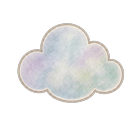
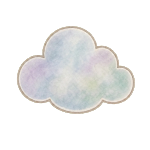
design: 아이콘 바꿈

diff --git a/src/pages/Home/WeeklyReport/WeeklyReport.jsx b/src/pages/Home/WeeklyReport/WeeklyReport.jsx
@@ -2,12 +2,14 @@ import { useMemo, useRef, useState } from 'react';
 import { useNavigate } from 'react-router-dom';
 import styled from 'styled-components';
 import closeIcon from '../../../assets/journal/close.png';
-import magnifierIcon from '../../../assets/weekly/magnifier.png';
+import cloudIcon from '../../../assets/weekly/cloud.png';
 import checkIcon from '../../../assets/weekly/check.png';
 import pencilIcon from '../../../assets/weekly/pencil.png';
+import sectionDividerSrc from '../../../assets/weekly/section-divider.svg';
 import { loadWeeklyList } from './weeklyReportData';
 import { useApi } from '../../../hooks/useApi';
 import { useFamilyRelation } from '../../../hooks/useFamilyRelation';
+import { wobblyBorder } from '../../../styles/wobble';
 
 // Figma 33_ver02 / ver04: 주간 리포트 목록.
 // 월 칩은 필터가 아니라 그 달 구간으로 스크롤을 옮기는 점프다(레이어 이름 Month Jump Row).
@@ -76,9 +78,10 @@ const TitleDivider = styled.div`
   border-top: 1.5px dashed rgba(74, 58, 47, 0.3);
 `;
 
-const SectionDivider = styled.div`
+const SectionDivider = styled.img`
   width: 100%;
-  border-top: 2px dashed rgba(74, 58, 47, 0.35);
+  height: auto;
+  display: block;
 `;
 
 const PersonToggle = styled.div`
@@ -100,9 +103,11 @@ const ToggleTab = styled.button`
   font-size: 17px;
   font-weight: 700;
 
-  border: 2px solid ${({ $active }) => ($active ? '#e6a794' : 'rgba(232, 205, 115, 0.7)')};
   background: ${({ $active }) => ($active ? 'rgba(230, 167, 148, 0.5)' : 'transparent')};
   color: ${({ $active }) => ($active ? '#c97158' : '#b9862e')};
+
+  ${({ $active }) =>
+    wobblyBorder({ radius: 12, width: 2, color: $active ? '#e6a794' : 'rgba(232, 205, 115, 0.7)' })}
 `;
 
 const ThisWeekCard = styled.div`
@@ -113,11 +118,12 @@ const ThisWeekCard = styled.div`
 
   padding: 16px;
   border-radius: 18px;
-  border: 3px solid rgba(143, 174, 74, 0.5);
   background: #edf2d4;
+
+  ${wobblyBorder({ radius: 18, width: 3, color: 'rgba(143, 174, 74, 0.5)' })}
 `;
 
-const MagnifierIcon = styled.img`
+const CloudIcon = styled.img`
   width: 50px;
   height: 50px;
   object-fit: contain;
@@ -143,9 +149,10 @@ const WeekRow = styled.button`
   gap: 10px;
 
   border-radius: 18px;
-  border: 1.5px solid rgba(74, 58, 47, 0.4);
   background: rgba(255, 255, 255, 0.55);
   text-align: left;
+
+  ${wobblyBorder({ radius: 18, width: 1.5, color: 'rgba(74, 58, 47, 0.4)' })}
 `;
 
 const ContentCol = styled.div`
@@ -187,7 +194,6 @@ const DateRow = styled.div`
 const DateChip = styled.span`
   padding: 4px 10px;
   border-radius: 10px;
-  border: 1px solid rgba(74, 58, 47, 0.35);
   background: rgba(255, 255, 255, 0.8);
 
   font-family: 'Noto Sans KR';
@@ -195,6 +201,8 @@ const DateChip = styled.span`
   font-weight: 700;
   color: #4a3a2f;
   white-space: nowrap;
+
+  ${wobblyBorder({ radius: 10, width: 1, color: 'rgba(74, 58, 47, 0.35)' })}
 `;
 
 // 이번 주는 아직 쌓이는 중이라 색을 달리해서 완성된 주와 구분한다.
@@ -203,13 +211,19 @@ const Badge = styled.span`
   padding: 4px 12px;
   border-radius: 20px;
   background: ${({ $progress }) => ($progress ? '#f6ebc7' : '#cbd879')};
-  border: ${({ $progress }) => ($progress ? '1px solid rgba(184, 134, 46, 0.5)' : 'none')};
 
   font-family: 'Noto Sans KR';
   font-size: 13px;
   font-weight: 700;
   color: ${({ $progress }) => ($progress ? '#a8761c' : '#3f5a1b')};
   white-space: nowrap;
+
+  ${({ $progress }) =>
+    wobblyBorder({
+      radius: 20,
+      width: 1,
+      color: $progress ? 'rgba(184, 134, 46, 0.5)' : '#cbd879',
+    })}
 `;
 
 // 폭을 고정하고 왼쪽 정렬해야, 한 줄평 길이가 주마다 달라도 연필 아이콘이
@@ -259,9 +273,11 @@ const MonthChip = styled.button`
   font-size: 15px;
   font-weight: ${({ $active }) => ($active ? 700 : 500)};
 
-  border: 1px solid ${({ $active }) => ($active ? 'rgba(74, 58, 47, 0.25)' : '#e5e0d9')};
   background: ${({ $active }) => ($active ? '#f6ebc7' : '#fcf8ea')};
   color: ${({ $active }) => ($active ? '#4a3a2f' : '#a79c8e')};
+
+  ${({ $active }) =>
+    wobblyBorder({ radius: 18, width: 1, color: $active ? 'rgba(74, 58, 47, 0.25)' : '#e5e0d9' })}
 `;
 
 const MonthSection = styled.div`
@@ -359,7 +375,7 @@ function WeeklyReport() {
 
       {currentWeek && (
         <ThisWeekCard>
-          <MagnifierIcon src={magnifierIcon} alt="" />
+          <CloudIcon src={cloudIcon} alt="" />
           <ThisWeekText>
             {currentWeek.inProgress ? (
               <>
@@ -395,7 +411,7 @@ function WeeklyReport() {
 
       {months.length > 0 && (
         <>
-          <SectionDivider />
+          <SectionDivider src={sectionDividerSrc} alt="" />
           <MonthJumpRow>
             {months.map((month) => (
               <MonthChip

diff --git a/src/pages/Home/WeeklyReport/WeeklyReportDetail.jsx b/src/pages/Home/WeeklyReport/WeeklyReportDetail.jsx
@@ -237,21 +237,8 @@ const DayLabel = styled.span`
   font-size: 11px;
 `;
 
-// 표정 아이콘을 감싸는 색 링. 점수에 따라 테두리 색이 바뀐다.
-const RingWrap = styled.div`
-  width: ${({ $size }) => $size}px;
-  height: ${({ $size }) => $size}px;
-  box-sizing: border-box;
-  flex-shrink: 0;
-
-  display: flex;
-  align-items: center;
-  justify-content: center;
-
-  border-radius: 50%;
-  border: 2px solid ${({ $color }) => $color};
-`;
-
+// 표정 아이콘 자체에 이미 점수별 색 링이 그려져 있어서 따로 감싸지 않고
+// 칸 크기만큼 꽉 채운다.
 const FaceIcon = styled.img`
   width: ${({ $size }) => $size}px;
   height: ${({ $size }) => $size}px;
@@ -267,8 +254,8 @@ const IconWrap = styled.div`
 `;
 
 const MealIcon = styled.img`
-  width: 36px;
-  height: 28px;
+  width: 40px;
+  height: 40px;
   object-fit: contain;
 `;
 
@@ -529,9 +516,7 @@ function WeeklyReportDetail() {
               <DayCol key={item.day}>
                 {/* 아직 답하지 않은 날은 빈 원으로 둔다. 표정을 채우면 기록한 것처럼 보인다 */}
                 {item.score ? (
-                  <RingWrap $size={40} $color={scoreColor(item.score)}>
-                    <FaceIcon $size={32} src={scoreFace(item.score)} alt="" />
-                  </RingWrap>
+                  <FaceIcon $size={40} src={scoreFace(item.score)} alt="" />
                 ) : (
                   <IconWrap>
                     <EmptyCircle src={emptyCircleIcon} alt="" />
@@ -544,9 +529,7 @@ function WeeklyReportDetail() {
           <Legend>
             {CONDITION_LEGEND.map((item) => (
               <LegendItem key={item.score}>
-                <RingWrap $size={22} $color={scoreColor(item.score)}>
-                  <FaceIcon $size={16} src={scoreFace(item.score)} alt="" />
-                </RingWrap>
+                <FaceIcon $size={22} src={scoreFace(item.score)} alt="" />
                 <LegendLabel>{item.label}</LegendLabel>
               </LegendItem>
             ))}

diff --git a/src/components/WobbleFilterDefs.jsx b/src/components/WobbleFilterDefs.jsx
@@ -1,0 +1,31 @@
+// Figma의 카드/칩/뱃지 테두리는 전부 손으로 그린 듯 살짝 울퉁불퉁하다(완전한
+// 직선이 아니다). 컴포넌트마다 크기가 달라 SVG 경로를 미리 그려둘 수 없어서,
+// 대신 SVG 필터(노이즈로 테두리만 살짝 어긋나게 만드는 feDisplacementMap)를
+// 한 번 심어두고 각 컴포넌트가 재사용한다 (src/styles/wobble.js 참고).
+// 화면에 아무것도 그리지 않으므로 앱에서 한 번만 마운트하면 된다.
+function WobbleFilterDefs() {
+  return (
+    <svg width="0" height="0" style={{ position: 'absolute' }} aria-hidden="true">
+      <defs>
+        <filter id="wobbly-border" x="-20%" y="-20%" width="140%" height="140%">
+          <feTurbulence
+            type="fractalNoise"
+            baseFrequency="0.06"
+            numOctaves="2"
+            seed="7"
+            result="noise"
+          />
+          <feDisplacementMap
+            in="SourceGraphic"
+            in2="noise"
+            scale="2.6"
+            xChannelSelector="R"
+            yChannelSelector="G"
+          />
+        </filter>
+      </defs>
+    </svg>
+  );
+}
+
+export default WobbleFilterDefs;

diff --git a/src/styles/wobble.js b/src/styles/wobble.js
@@ -1,0 +1,22 @@
+import { css } from 'styled-components';
+
+// 카드/칩/뱃지의 실제 테두리는 이 mixin이 그리는 게 아니라, 이 mixin이 만든
+// 빈 ::before 위에 SVG 필터(WobbleFilterDefs)를 씌워서 그린다. 내용물이 없는
+// 별도 레이어라서 필터가 텍스트까지 왜곡시키지 않는다 — 부모에 직접 필터를
+// 걸면 안쪽 글자까지 같이 울렁거린다.
+//
+// 이 mixin을 쓰는 컴포넌트는 자기 border를 지워야 한다(borderWidth를 여기서
+// 함께 그리므로 둘 다 그리면 두 겹으로 보인다).
+export const wobblyBorder = ({ radius = 18, width = 1.5, color = 'rgba(74, 58, 47, 0.4)' }) => css`
+  position: relative;
+
+  &::before {
+    content: '';
+    position: absolute;
+    inset: 0;
+    border-radius: ${radius}px;
+    border: ${width}px solid ${color};
+    filter: url(#wobbly-border);
+    pointer-events: none;
+  }
+`;

diff --git a/src/App.jsx b/src/App.jsx
@@ -2,6 +2,7 @@ import { BrowserRouter, Routes, Route } from 'react-router-dom';
 import { ThemeProvider } from 'styled-components';
 import { theme } from './styles/theme';
 import GlobalStyle from './styles/GlobalStyle';
+import WobbleFilterDefs from './components/WobbleFilterDefs';
 import { AppDataProvider } from './store/AppDataContext';
 
 import Home from './pages/Home/Home';
@@ -34,6 +35,7 @@ function App() {
   return (
     <ThemeProvider theme={theme}>
       <GlobalStyle />
+      <WobbleFilterDefs />
       <AppDataProvider>
         <BrowserRouter>
           <Layout>
